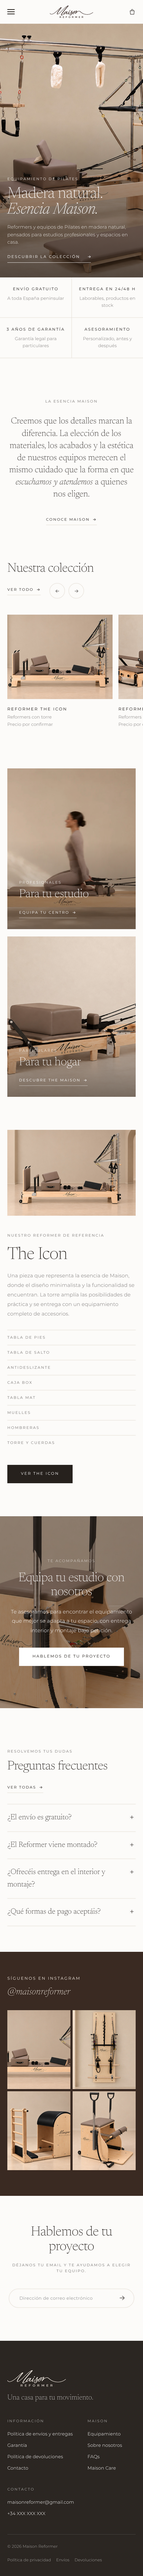
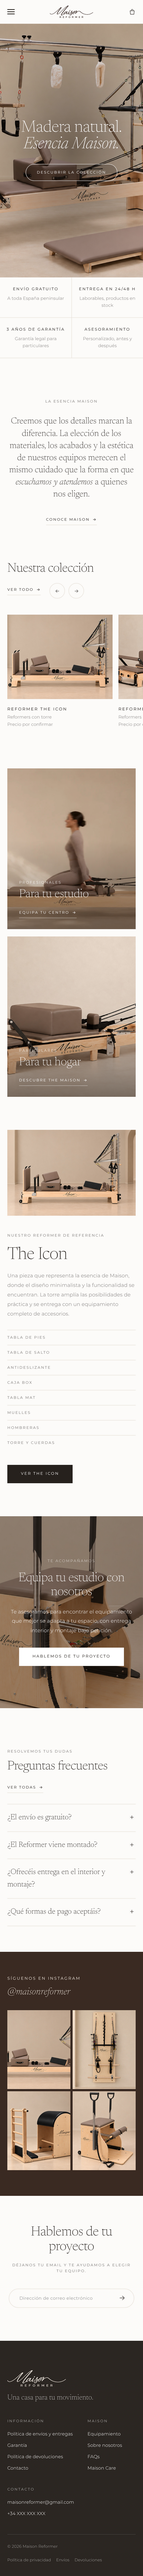
Portada: titular centrado sin textos extra y botón redondeado de cristal
Igual en ordenador y móvil. Tema WordPress 1.10.0.

Claude-Session: https://claude.ai/code/session_01Kmjfpmw6MBJZFRJkHNTaPT

Changed region(s): [[0.0, 0.0, 1.0, 0.1248]]

diff --git a/wordpress/maison-reformer/style.css b/wordpress/maison-reformer/style.css
@@ -3,7 +3,7 @@ Theme Name: Maison Reformer
 Theme URI: https://maisonreformer.com
 Author: Neris Studio
 Description: Tema a medida para Maison Reformer, equipamiento de Pilates en madera natural. Compatible con WooCommerce. Incluye importador de contenido en Apariencia → Maison Reformer.
-Version: 1.9.0
+Version: 1.10.0
 Requires at least: 6.2
 Requires PHP: 7.4
 WC requires at least: 8.0
@@ -788,6 +788,34 @@ strong, b { font-weight: 500; }
   }
   .hero-actions .btn-light::after { content: "→"; margin-left: 10px; letter-spacing: 0; }
 }
+
+/* v11 · Foto principal: solo titular centrado y botón de cristal redondeado */
+.hero .hero-eyebrow, .hero .hero-lead { display: none !important; }
+.hero::after { display: block; background: radial-gradient(ellipse at center, rgba(30, 22, 16, .42) 0%, rgba(30, 22, 16, .18) 55%, rgba(30, 22, 16, .08) 100%); }
+.hero-text { position: absolute; inset: 0; z-index: 1; align-items: center; justify-content: center; text-align: center; padding: 0 var(--gutter); }
+.hero-inner { max-width: 760px; display: flex; flex-direction: column; align-items: center; }
+.hero h1 { font-size: clamp(48px, 6vw, 92px); line-height: 1.02; text-shadow: 0 2px 30px rgba(20, 14, 10, .25); }
+.hero-actions { margin-top: 40px; justify-content: center; }
+.hero-actions .btn-light, .hero-actions .btn-light:hover {
+  height: 50px; padding: 0 38px; border-radius: 999px; border: 1px solid rgba(255, 255, 255, .85);
+  font-size: 10.5px; letter-spacing: var(--caps);
+}
+.hero-actions .btn-light {
+  background: rgba(255, 255, 255, .12); color: #fff;
+  -webkit-backdrop-filter: blur(8px); backdrop-filter: blur(8px);
+  transition: background .35s ease, color .35s ease;
+}
+.hero-actions .btn-light:hover { background: #fff; color: var(--ink); }
+.hero-actions .btn-light::after { content: none; }
+@media (max-width: 760px) {
+  .hero-text { padding: 0 var(--gutter); justify-content: center; }
+  .hero::after { background: radial-gradient(ellipse at center, rgba(30, 22, 16, .45) 0%, rgba(30, 22, 16, .2) 60%, rgba(30, 22, 16, .1) 100%); }
+  .hero h1 { font-size: 44px; }
+  .hero-actions { margin-top: 30px; }
+  .hero-actions .btn-light, .hero-actions .btn-light:hover { height: 46px; padding: 0 30px; border-bottom: 1px solid rgba(255, 255, 255, .85); font-size: 10px; }
+}
+.hero::after { background: radial-gradient(ellipse 60% 55% at center, rgba(30, 22, 16, .5) 0%, rgba(30, 22, 16, .2) 70%, rgba(30, 22, 16, .1) 100%); }
+.hero-actions .btn-light { background: rgba(30, 22, 16, .22); }
 
 /* =========================================================================
    WordPress

diff --git a/maison-reformer/css/style.css b/maison-reformer/css/style.css
@@ -775,3 +775,31 @@ strong, b { font-weight: 500; }
   }
   .hero-actions .btn-light::after { content: "→"; margin-left: 10px; letter-spacing: 0; }
 }
+
+/* v11 · Foto principal: solo titular centrado y botón de cristal redondeado */
+.hero .hero-eyebrow, .hero .hero-lead { display: none !important; }
+.hero::after { display: block; background: radial-gradient(ellipse at center, rgba(30, 22, 16, .42) 0%, rgba(30, 22, 16, .18) 55%, rgba(30, 22, 16, .08) 100%); }
+.hero-text { position: absolute; inset: 0; z-index: 1; align-items: center; justify-content: center; text-align: center; padding: 0 var(--gutter); }
+.hero-inner { max-width: 760px; display: flex; flex-direction: column; align-items: center; }
+.hero h1 { font-size: clamp(48px, 6vw, 92px); line-height: 1.02; text-shadow: 0 2px 30px rgba(20, 14, 10, .25); }
+.hero-actions { margin-top: 40px; justify-content: center; }
+.hero-actions .btn-light, .hero-actions .btn-light:hover {
+  height: 50px; padding: 0 38px; border-radius: 999px; border: 1px solid rgba(255, 255, 255, .85);
+  font-size: 10.5px; letter-spacing: var(--caps);
+}
+.hero-actions .btn-light {
+  background: rgba(255, 255, 255, .12); color: #fff;
+  -webkit-backdrop-filter: blur(8px); backdrop-filter: blur(8px);
+  transition: background .35s ease, color .35s ease;
+}
+.hero-actions .btn-light:hover { background: #fff; color: var(--ink); }
+.hero-actions .btn-light::after { content: none; }
+@media (max-width: 760px) {
+  .hero-text { padding: 0 var(--gutter); justify-content: center; }
+  .hero::after { background: radial-gradient(ellipse at center, rgba(30, 22, 16, .45) 0%, rgba(30, 22, 16, .2) 60%, rgba(30, 22, 16, .1) 100%); }
+  .hero h1 { font-size: 44px; }
+  .hero-actions { margin-top: 30px; }
+  .hero-actions .btn-light, .hero-actions .btn-light:hover { height: 46px; padding: 0 30px; border-bottom: 1px solid rgba(255, 255, 255, .85); font-size: 10px; }
+}
+.hero::after { background: radial-gradient(ellipse 60% 55% at center, rgba(30, 22, 16, .5) 0%, rgba(30, 22, 16, .2) 70%, rgba(30, 22, 16, .1) 100%); }
+.hero-actions .btn-light { background: rgba(30, 22, 16, .22); }

diff --git a/wordpress/maison-reformer/functions.php b/wordpress/maison-reformer/functions.php
@@ -7,7 +7,7 @@
 
 defined( 'ABSPATH' ) || exit;
 
-define( 'MAISON_VERSION', '1.9.0' );
+define( 'MAISON_VERSION', '1.10.0' );
 define( 'MAISON_DIR', get_template_directory() );
 define( 'MAISON_URI', get_template_directory_uri() );
 
